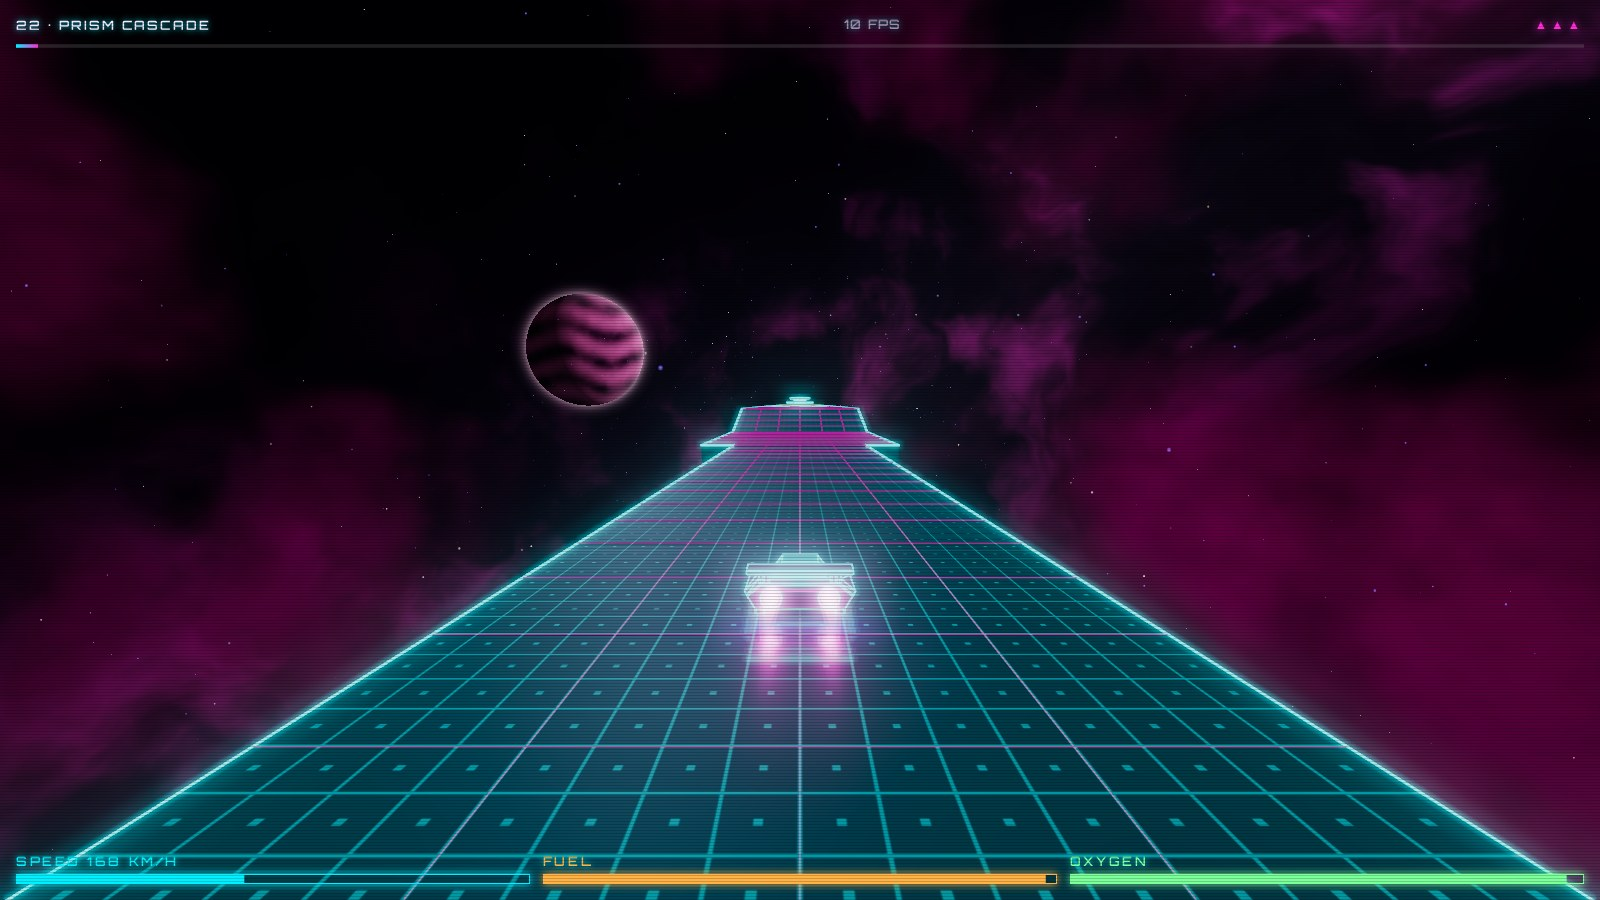
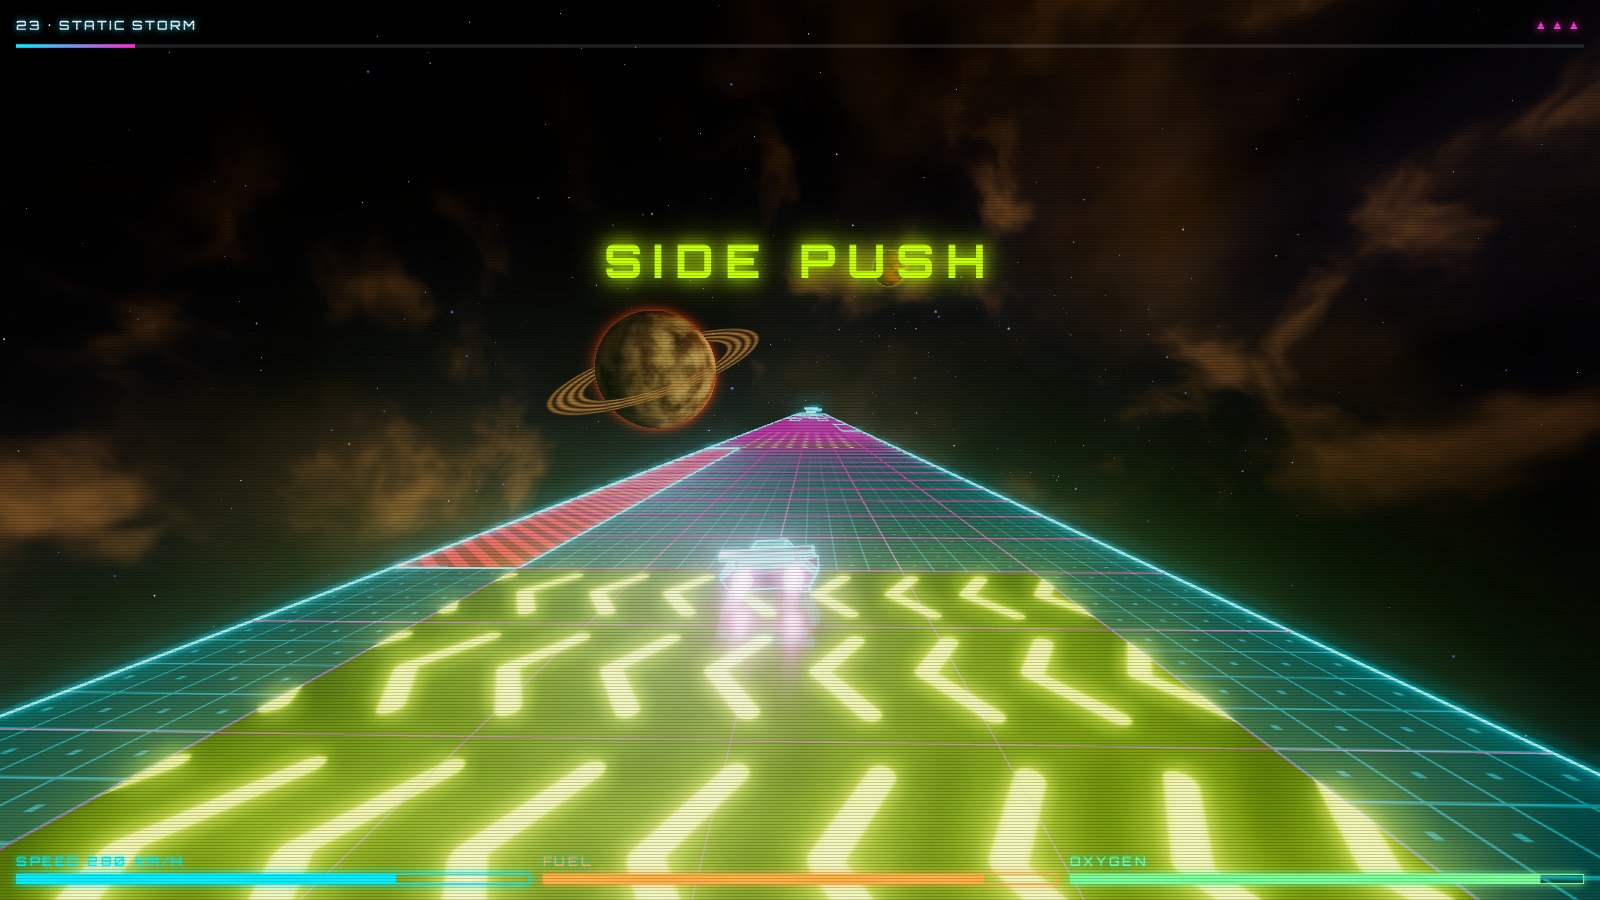
Reorganized the code

diff --git a/tests/screenshots.py b/tests/screenshots.py
@@ -15,7 +15,9 @@ OUT = Path("data")
 VIEWPORT = ViewportSize(width=1600, height=900)
 QUALITY = 88
 EDITOR_SCROLL = 12  # rows the editor moves forward
-LEVEL = 22  # Prism Cascade, counted from 1: heights and colours from the start
+GAME_LEVEL = 23  # Static Storm, counted from 1: pushers, kill strips and refuel tiles from the start
+GAME_PROGRESS = 6.3  # percent of the track ridden: row 28 of 448
+EDITOR_LEVEL = 22  # Prism Cascade: heights and colours from the start
 
 
 def snap(page: Page, name: str) -> None:
@@ -25,29 +27,52 @@ def snap(page: Page, name: str) -> None:
     print(f"{path} ({path.stat().st_size // 1024} KB)")  # noqa: T201
 
 
+def press(page: Page, *codes: str) -> None:
+    """Press and release the keys at ``codes`` in a single round trip.
+
+    Each Playwright key press waits for a frame, which takes long with software WebGL; the game queues presses, so
+    sending them all at once lands them in order on the next frame.
+    """
+    page.evaluate(
+        """codes => {
+            for (const code of codes) {
+                const key = code.startsWith("Key") ? code.slice(3).toLowerCase() : code;
+                for (const type of ["keydown", "keyup"]) {
+                    window.dispatchEvent(new KeyboardEvent(type, {code, key, cancelable: true}));
+                }
+            }
+        }""",
+        codes,
+    )
+
+
 def take(url: str) -> None:
-    """Ride ``LEVEL``, then edit it, taking a screenshot of each."""
+    """Ride ``GAME_LEVEL``, then edit ``EDITOR_LEVEL``, taking a screenshot of each."""
     with sync_playwright() as playwright:
         browser = playwright.chromium.launch(args=["--enable-unsafe-swiftshader"])
         page = browser.new_page(viewport=VIEWPORT)
         page.goto(url)
         page.wait_for_selector("#loading", state="detached", timeout=60_000)
-        page.keyboard.press("Enter")  # title -> level select
-        for _ in range(LEVEL - 1):
-            page.keyboard.press("ArrowDown")
-        page.keyboard.press("Enter")  # ride the level
-        page.keyboard.down("ArrowUp")
-        page.wait_for_timeout(2500)
-        snap(page, "screenshot-game.jpg")
-        page.keyboard.up("ArrowUp")
-        page.keyboard.press("Escape")  # back to the level select
+        page.add_style_tag(content="#hud-fps { visibility: hidden; }")  # software WebGL makes it read ~10 FPS
+        press(page, "Enter")  # title -> level select
+        # The editor keeps the sky of the last level ridden, so start the edited level first
+        press(page, *["ArrowDown"] * (EDITOR_LEVEL - 1), "Enter")
         page.wait_for_timeout(500)
-        page.keyboard.press("KeyE")  # edit the selected level
+        press(page, "Escape")  # back to the level select
+        page.wait_for_timeout(500)
+        press(page, "KeyE")  # edit the level
         page.wait_for_timeout(1000)
-        for _ in range(EDITOR_SCROLL):
-            page.keyboard.press("ArrowUp")  # move along the track
+        press(page, *["ArrowUp"] * EDITOR_SCROLL)  # move along the track
         page.wait_for_timeout(1500)
         snap(page, "screenshot-editor.jpg")
+        press(page, "Escape")  # back to the level select
+        page.wait_for_timeout(500)
+        press(page, *["ArrowDown"] * (GAME_LEVEL - EDITOR_LEVEL), "Enter")  # ride the other level
+        page.keyboard.down("ArrowUp")
+        # Frame times vary too much to ride for a set time: wait for the progress bar to reach the second pushers,
+        # with a kill strip alongside
+        page.wait_for_function(f"parseFloat(document.getElementById('hud-progress').style.width) >= {GAME_PROGRESS}")
+        snap(page, "screenshot-game.jpg")
         browser.close()
 
 

diff --git a/README.md b/README.md
@@ -201,8 +201,6 @@ docker run --rm -p 8080:80 synthride    # then open http://127.0.0.1:8080
 | `synthride.levels` | The level files. |
 | `synthride.server` | Desktop tooling: zips `core` + `editor` + `web` + `levels`, generates the HTML5 page, serves both, and in dev mode saves the levels posted by the editor. |
 
-The code has one class per file, and each source file has a matching test file at the same path under `tests/`.
-
 ## Development
 
 ```bash
